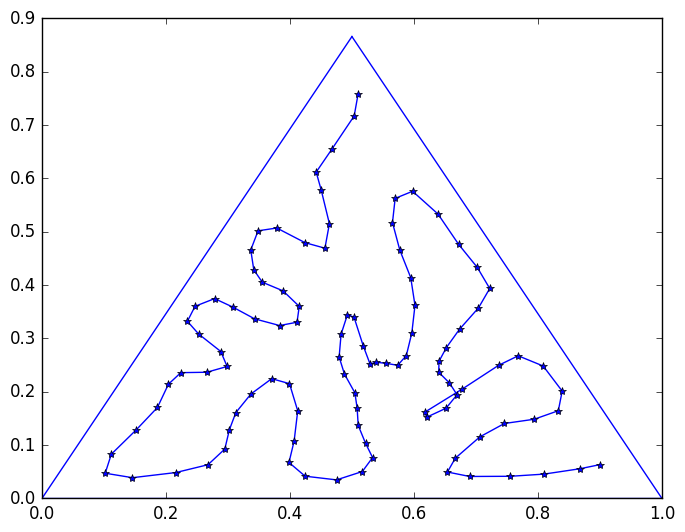
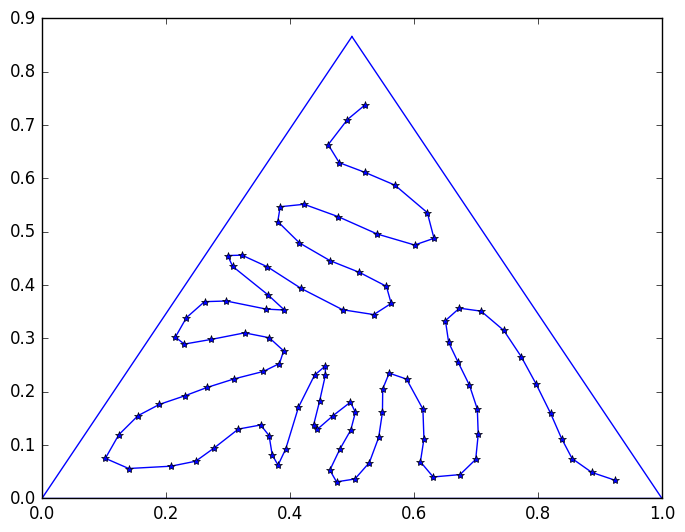
Add updated plots

diff --git a/Sheet2_broed/q1.py b/Sheet2_broed/q1.py
@@ -96,7 +96,7 @@ if __name__ == '__main__':
     # generate data points
     data = triangle_points(1000)
     
-    for run in range(1,2):
+    for run in range(2):
         if run == 1:
             params['sigma_0'] = 5
         net = Kohonen(params)
